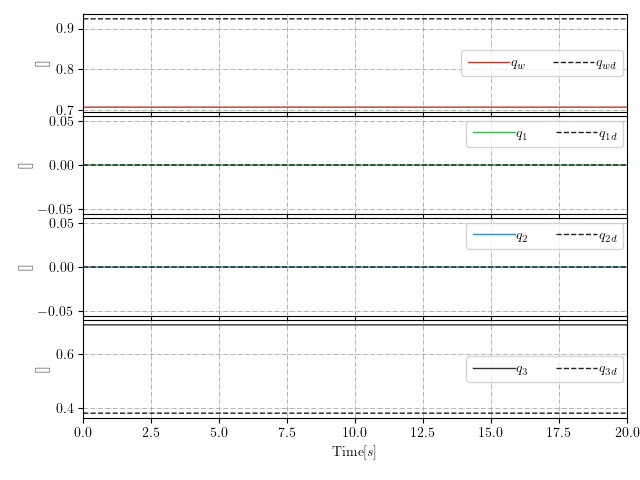
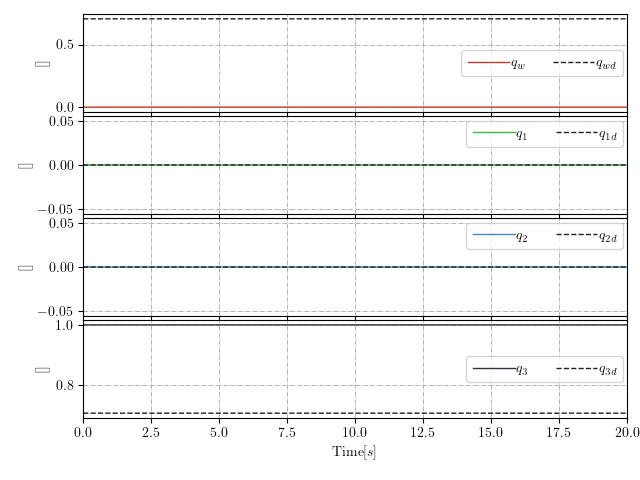
Dual Norm

diff --git a/scripts/Tutorial/Tutorial_1.py b/scripts/Tutorial/Tutorial_1.py
@@ -55,13 +55,13 @@ def main(odom_pub_1, odom_pub_2, odom_pub_3):
     rospy.loginfo_once("DualQuaternion.....")
 
     # Defining of the vectors using casadi
-    theta1 = ca.SX([np.pi/2])
+    theta1 = ca.SX([np.pi])
     n1 = ca.SX([0.0, 0.0, 1.0])
     q1 = ca.vertcat(ca.cos(theta1/2), ca.sin(theta1/2)@n1)
-    t1 = ca.SX([0.0, 0.0, 0.0, 0.0])
+    t1 = ca.SX([0.0, 1, -1.0, 0.0])
 
     # Defining of the vectors using casadi
-    theta2 = ca.SX([ca.pi/4])
+    theta2 = ca.SX([ca.pi/2])
     n2 = ca.SX([0.0, 0.0, 1.0])
     q2 = ca.vertcat(ca.cos(theta2/2), ca.sin(theta2/2)@n2)
     t2 = ca.SX([0.0, 0.0, 2.0, 0.0])
@@ -98,11 +98,11 @@ def main(odom_pub_1, odom_pub_2, odom_pub_3):
         Q1_norm = Q1.norm
         Q2_norm = Q2.norm
         Q3_norm = Q3.norm
-        print(Q1_norm)
-        print(Q2_norm)
-        print(Q3_norm)
+        print("----------------")
         print(Q3.get_trans.get[:, 0])
         print(Q3.get_quat.get[:, 0])
+        print(Q3)
+        print("----------------")
 
         # Send Data throught Ros
         quat_1_msg = get_odometry(quat_1_msg, Q1, 'quat_1')

diff --git a/scripts/Quaternion_operations.py b/scripts/Quaternion_operations.py
@@ -47,15 +47,13 @@ def main(odom_pub_1, odom_pub_2):
 
     # Init Quaternions
 
-    theta1 = ca.SX([ca.pi/4])
-    n1 = ca.SX([0.0, 0.0, 1.0])
+    theta1 = ca.SX([ca.pi/8])
+    n1 = ca.SX([1.0, 0.0, 0.0])
     q1 = ca.vertcat(ca.cos(theta1/2), ca.sin(theta1/2)@n1)
-    q1 = ca.SX([5, 28, 86, 99])
 
-    theta2 = ca.SX([ca.pi/4])
-    n2 = ca.SX([0.0, 0.0, 1.0])
+    theta2 = ca.SX([ca.pi/2])
+    n2 = ca.SX([1.0, 0.0, 0.0])
     q2 = ca.vertcat(ca.cos(theta2/2), ca.sin(theta2/2)@n2)
-    q2 = ca.SX([-2, 0, 0, 25])
 
     # Create Quaternions objects
     quat_1 = Quaternion(q = q1)
@@ -80,13 +78,9 @@ def main(odom_pub_1, odom_pub_2):
 
     for k in range(0, t.shape[0]):
         tic = rospy.get_time()
-        quat_3 =   quat_1 * scalar
-        print(quat_1)
+        quat_3 =   quat_1 * quat_2
         print("-------------------")
-        i = quat_3.shape[0]
         print(quat_3)
-        print(i)
-        print(type(quat_3))
 
         # Send Data throught Ros
         #quat_1_msg = get_odometry(quat_1_msg, quat_1, 'quat_1')
